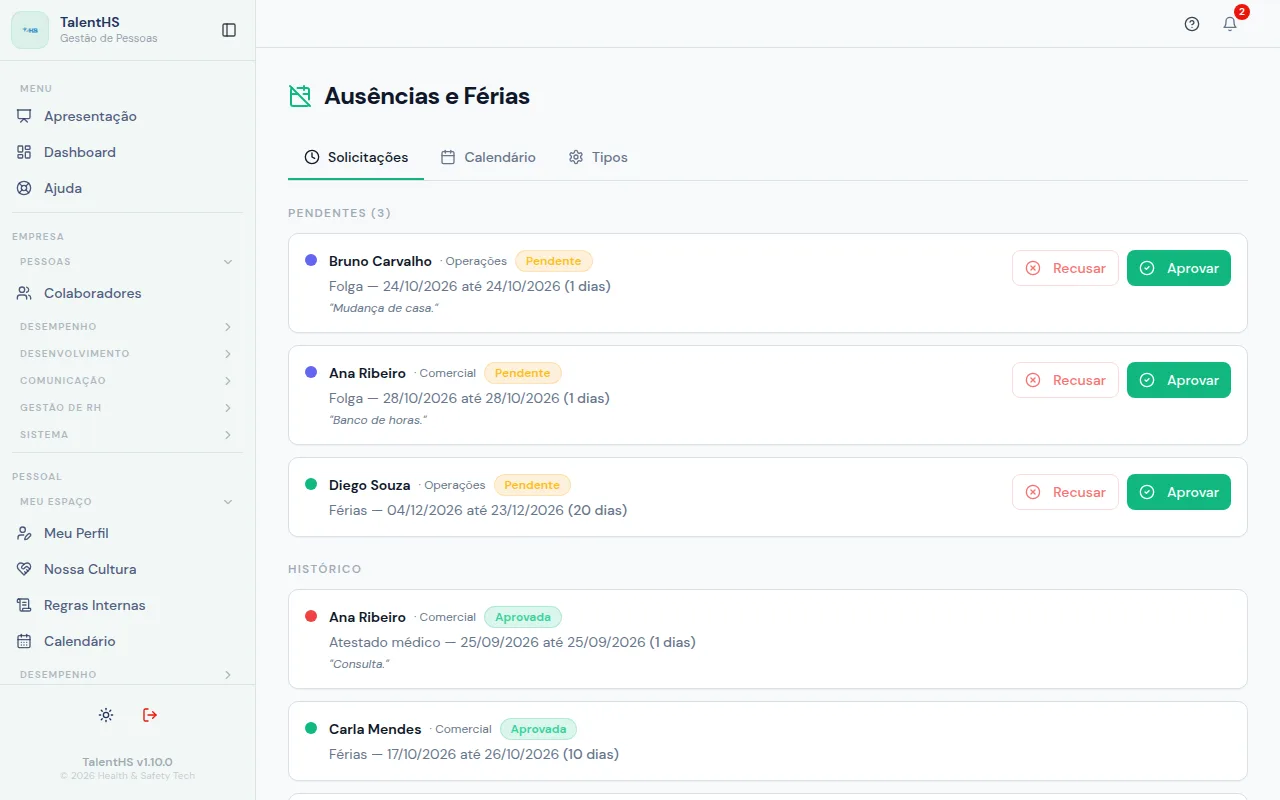
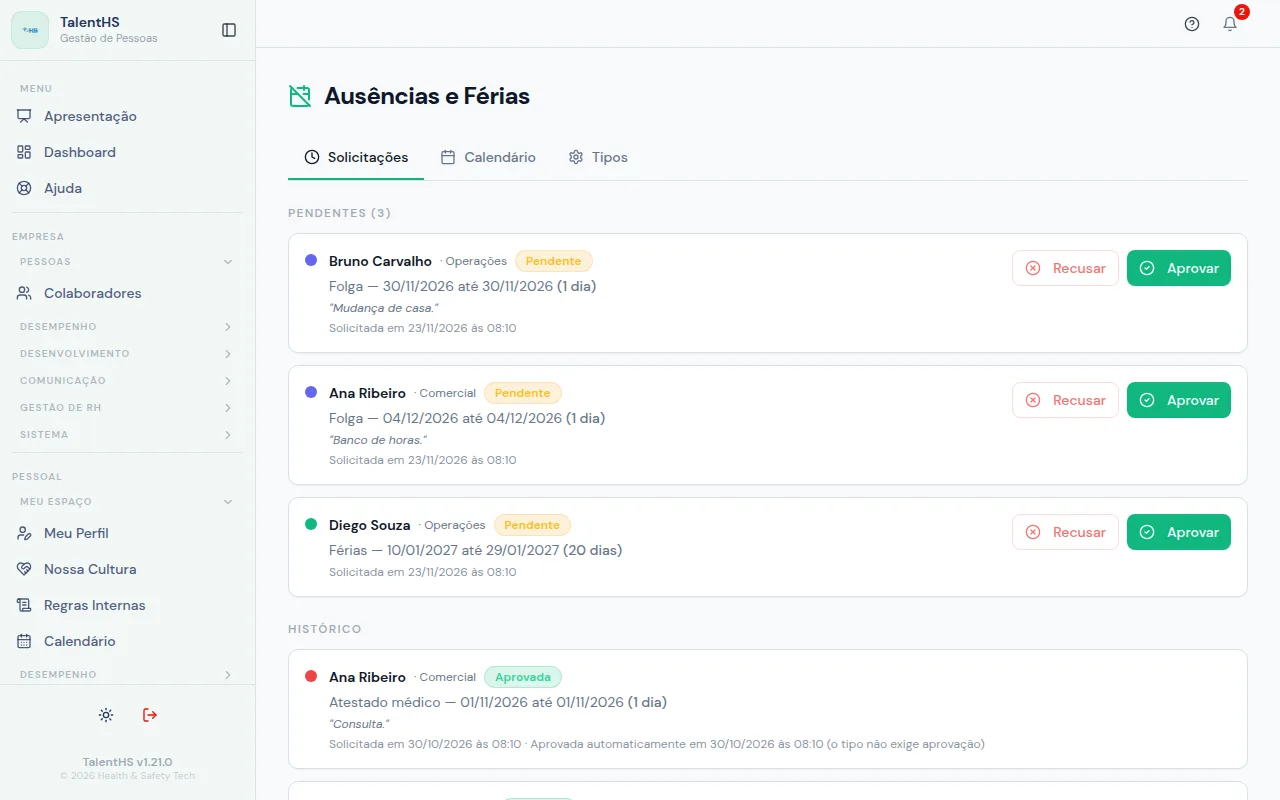
feat(ausencias): RH vê quando o pedido foi feito, quem decidiu e quando; aprovação automática registrada, versão 1.21.0
Pedido de tipo sem aprovação (ex.: Atestado Médico) entrava 'approved' sem
reviewed_at nem marca de origem, e o RH não tinha como saber como foi aprovado.
Migração 037 cria absence_requests.auto_approved e preenche os já existentes.

diff --git a/frontend/src/pages/AbsencesAdminPage.tsx b/frontend/src/pages/AbsencesAdminPage.tsx
@@ -31,6 +31,38 @@ function StatusBadge({ status }: { status: AbsenceRequest["status"] }) {
   return <Badge className="bg-amber-500/15 text-amber-400 border-amber-500/20">Pendente</Badge>;
 }
 
+function formatDate(isoDate: string) {
+  return new Date(isoDate + "T12:00:00").toLocaleDateString("pt-BR");
+}
+
+function formatDateTime(iso: string) {
+  const d = new Date(iso);
+  return `${d.toLocaleDateString("pt-BR")} às ${d.toLocaleTimeString("pt-BR", { hour: "2-digit", minute: "2-digit" })}`;
+}
+
+function PeriodText({ request }: { request: AbsenceRequest }) {
+  if (request.start_time && request.end_time)
+    return (
+      <>
+        {formatDate(request.start_date)}, das {request.start_time} às {request.end_time}
+      </>
+    );
+  return (
+    <>
+      {formatDate(request.start_date)} até {formatDate(request.end_date)}{" "}
+      <span className="font-medium">({request.days} {request.days === 1 ? "dia" : "dias"})</span>
+    </>
+  );
+}
+
+function decisionText(request: AbsenceRequest) {
+  if (request.status === "pending" || !request.reviewed_at) return null;
+  const when = formatDateTime(request.reviewed_at);
+  if (request.auto_approved) return `Aprovada automaticamente em ${when} (o tipo não exige aprovação)`;
+  const verb = request.status === "approved" ? "Aprovada" : "Recusada";
+  return `${verb} por ${request.reviewer_name ?? "usuário removido"} em ${when}`;
+}
+
 // ── Review Dialog ─────────────────────────────────────────────────────────────
 
 function ReviewDialog({
@@ -70,9 +102,7 @@ function ReviewDialog({
         </DialogHeader>
         <div className="space-y-3 py-2">
           <p className="text-sm text-muted-foreground">
-            <strong>{request.user_name}</strong> — {request.type_name} de{" "}
-            {new Date(request.start_date + "T12:00:00").toLocaleDateString("pt-BR")} até{" "}
-            {new Date(request.end_date + "T12:00:00").toLocaleDateString("pt-BR")} ({request.days} dias)
+            <strong>{request.user_name}</strong> — {request.type_name}: <PeriodText request={request} />
           </p>
           <div className="space-y-1">
             <Label>Nota (opcional)</Label>
@@ -191,10 +221,7 @@ function RequestCard({
               <StatusBadge status={request.status} />
             </div>
             <p className="text-sm text-muted-foreground">
-              {request.type_name} —{" "}
-              {new Date(request.start_date + "T12:00:00").toLocaleDateString("pt-BR")} até{" "}
-              {new Date(request.end_date + "T12:00:00").toLocaleDateString("pt-BR")}{" "}
-              <span className="font-medium">({request.days} dias)</span>
+              {request.type_name} — <PeriodText request={request} />
             </p>
             {request.reason && (
               <p className="text-xs text-muted-foreground italic">"{request.reason}"</p>
@@ -202,6 +229,10 @@ function RequestCard({
             {request.review_note && (
               <p className="text-xs text-muted-foreground">Nota: {request.review_note}</p>
             )}
+            <p className="text-xs text-muted-foreground/80">
+              Solicitada em {formatDateTime(request.created_at)}
+              {decisionText(request) && <> · {decisionText(request)}</>}
+            </p>
           </div>
           {request.status === "pending" && onApprove && onReject && (
             <div className="flex gap-2 shrink-0">

diff --git a/frontend/src/components/ChangelogModal.tsx b/frontend/src/components/ChangelogModal.tsx
@@ -16,9 +16,19 @@ interface ChangelogVersion {
 
 const CHANGELOG: ChangelogVersion[] = [
   {
+    version: "v1.21.0",
+    date: "26/11/2026",
+    current: true,
+    entries: [
+      { type: "novidade", text: "Em Ausências e Férias, cada pedido mostra quando foi solicitado e, depois de decidido, quem aprovou ou recusou e quando." },
+      { type: "melhoria", text: "Pedidos de tipos que não exigem aprovação aparecem como \"Aprovada automaticamente\", para não serem confundidos com uma aprovação do gestor." },
+      { type: "melhoria", text: "Ausências de parte do dia mostram o horário pedido na tela do RH, em vez de \"(0 dias)\"." },
+      { type: "melhoria", text: "O relatório de ausências ganhou as colunas Decidido por e Decidido em." },
+    ],
+  },
+  {
     version: "v1.20.0",
     date: "18/11/2026",
-    current: true,
     entries: [
       { type: "novidade", text: "Cada colaborador agora tem um gestor responsável, definido pelo RH no cadastro. Só ele dá a nota de gestor daquela pessoa." },
       { type: "novidade", text: "Gestores avaliam a própria equipe em Minha Avaliação, na nova aba Avaliar minha equipe." },

diff --git a/frontend/src/components/AdminSidebar.tsx b/frontend/src/components/AdminSidebar.tsx
@@ -294,7 +294,7 @@ export function AdminSidebar() {
             onClick={() => setChangelogOpen(true)}
             className="w-full rounded-md px-2 py-1.5 text-center transition-colors hover:bg-sidebar-accent"
           >
-            <p className="text-xs font-semibold text-muted-foreground/60 leading-tight hover:text-muted-foreground transition-colors">TalentHS v1.20.0</p>
+            <p className="text-xs font-semibold text-muted-foreground/60 leading-tight hover:text-muted-foreground transition-colors">TalentHS v1.21.0</p>
             <p className="text-[10px] text-muted-foreground/35 leading-tight">© 2026 Health & Safety Tech</p>
           </button>
         </div>

diff --git a/frontend/src/types/absences.ts b/frontend/src/types/absences.ts
@@ -24,5 +24,7 @@ export interface AbsenceRequest {
   status: "pending" | "approved" | "rejected";
   review_note?: string;
   reviewed_at?: string;
+  reviewer_name?: string | null;
+  auto_approved: boolean;
   created_at: string;
 }

diff --git a/backend/tests/db/test_absences_review_info_api.py b/backend/tests/db/test_absences_review_info_api.py
@@ -1,0 +1,64 @@
+from tests.db.conftest import make_company, make_user
+
+
+async def _type(db, company_id, requires_approval: bool) -> str:
+    return str(await db.fetchval(
+        "INSERT INTO public.absence_types (company_id, name, requires_approval) VALUES ($1, 'Tipo', $2) RETURNING id",
+        company_id, requires_approval,
+    ))
+
+
+def _team_item(body, request_id):
+    return next(r for r in body if r["id"] == request_id)
+
+
+async def test_auto_approved_request_records_when_and_how(db, client_as):
+    company = await make_company(db)
+    user = await make_user(db, company, name="Welton")
+    hr = await make_user(db, company, name="Gestora RH", role="manager")
+    type_id = await _type(db, company, requires_approval=False)
+
+    created = (await client_as(user).post("/absences/request", json={
+        "type_id": type_id, "start_date": "2027-01-05", "start_time": "10:00", "end_time": "11:30",
+    })).json()
+    assert created["status"] == "approved"
+
+    item = _team_item((await client_as(hr).get("/absences/team")).json(), created["id"])
+    assert item["auto_approved"] is True
+    assert item["reviewed_at"] == item["created_at"]
+    assert item["reviewer_name"] is None
+
+
+async def test_manual_approval_shows_reviewer_name(db, client_as):
+    company = await make_company(db)
+    user = await make_user(db, company, name="Ana")
+    hr = await make_user(db, company, name="Gestora RH", role="manager")
+    type_id = await _type(db, company, requires_approval=True)
+
+    created = (await client_as(user).post("/absences/request", json={
+        "type_id": type_id, "start_date": "2027-02-01", "end_date": "2027-02-03",
+    })).json()
+    assert created["status"] == "pending"
+    assert created["auto_approved"] is False and created["reviewed_at"] is None
+
+    await client_as(hr).put(f"/absences/{created['id']}/approve", json={"note": "ok"})
+
+    item = _team_item((await client_as(hr).get("/absences/team")).json(), created["id"])
+    assert item["auto_approved"] is False
+    assert item["reviewer_name"] == "Gestora RH"
+    assert item["reviewed_at"] is not None
+
+
+async def test_report_csv_has_decision_columns(db, client_as):
+    company = await make_company(db)
+    user = await make_user(db, company, name="Ana")
+    hr = await make_user(db, company, name="Gestora RH", role="manager")
+    auto_type = await _type(db, company, requires_approval=False)
+    await client_as(user).post("/absences/request", json={
+        "type_id": auto_type, "start_date": "2027-01-05", "end_date": "2027-01-05",
+    })
+
+    text = (await client_as(hr).get("/reports/absences")).content.decode("utf-8-sig")
+    header, row = text.splitlines()[:2]
+    assert "Decidido por" in header and "Decidido em" in header
+    assert "Automática (tipo sem aprovação)" in row

diff --git a/backend/app/routers/absences.py b/backend/app/routers/absences.py
@@ -63,6 +63,8 @@ def _ser_request(r) -> dict:
         "status": r["status"],
         "review_note": r.get("review_note"),
         "reviewed_at": r["reviewed_at"].isoformat() if r.get("reviewed_at") else None,
+        "reviewer_name": r.get("reviewer_name"),
+        "auto_approved": r.get("auto_approved", False),
         "created_at": r["created_at"].isoformat() if r["created_at"] else None,
     }
 
@@ -144,11 +146,12 @@ async def delete_type(
 
 REQUEST_JOIN = """
     SELECT ar.*, p.name AS user_name, p.email AS user_email, d.name AS department,
-           at.name AS type_name, at.color AS type_color
+           at.name AS type_name, at.color AS type_color, rp.name AS reviewer_name
     FROM absence_requests ar
     JOIN profiles p ON p.user_id = ar.user_id
     LEFT JOIN departments d ON d.id = p.department_id
     JOIN absence_types at ON at.id = ar.type_id
+    LEFT JOIN profiles rp ON rp.user_id = ar.reviewed_by
 """
 
 
@@ -229,13 +232,16 @@ async def create_request(
     if not atype:
         raise HTTPException(404, "Tipo de ausência não encontrado")
 
-    status = "pending" if atype["requires_approval"] else "approved"
+    auto_approved = not atype["requires_approval"]
+    status = "approved" if auto_approved else "pending"
     row = await conn.fetchrow(
         """INSERT INTO absence_requests
-               (company_id, user_id, type_id, start_date, end_date, start_time, end_time, days, reason, status)
-           VALUES ($1, $2, $3, $4, $5, $6, $7, $8, $9, $10) RETURNING *""",
+               (company_id, user_id, type_id, start_date, end_date, start_time, end_time, days, reason,
+                status, auto_approved, reviewed_at)
+           VALUES ($1, $2, $3, $4, $5, $6, $7, $8, $9, $10, $11, CASE WHEN $11 THEN now() END)
+           RETURNING *""",
         company_id, user_id, body["type_id"], start, end, start_time, end_time, days,
-        body.get("reason"), status,
+        body.get("reason"), status, auto_approved,
     )
     full = await conn.fetchrow(
         REQUEST_JOIN + " WHERE ar.id = $1", row["id"]

diff --git a/backend/app/routers/reports.py b/backend/app/routers/reports.py
@@ -118,11 +118,13 @@ async def report_absences(
     rows = await conn.fetch(
         """SELECT p.name, p.email, d.name AS department,
                   at.name AS type_name, ar.start_date, ar.end_date, ar.days,
-                  ar.status, ar.reason, ar.review_note, ar.created_at
+                  ar.status, ar.reason, ar.review_note, ar.created_at,
+                  ar.auto_approved, ar.reviewed_at, rp.name AS reviewer_name
            FROM absence_requests ar
            JOIN profiles p ON p.user_id = ar.user_id
            LEFT JOIN departments d ON d.id = p.department_id
            JOIN absence_types at ON at.id = ar.type_id
+           LEFT JOIN profiles rp ON rp.user_id = ar.reviewed_by
            WHERE ar.company_id = $1
            ORDER BY ar.created_at DESC""",
         company_id,
@@ -141,10 +143,15 @@ async def report_absences(
             r["reason"] or "",
             r["review_note"] or "",
             _fmt_date(r["created_at"]),
+            "Automática (tipo sem aprovação)" if r["auto_approved"] else (r["reviewer_name"] or ""),
+            _fmt_date(r["reviewed_at"]),
         ]
         for r in rows
     ]
-    headers = ["Nome", "E-mail", "Departamento", "Tipo", "Início", "Fim", "Dias", "Status", "Motivo", "Nota do Gestor", "Solicitado em"]
+    headers = [
+        "Nome", "E-mail", "Departamento", "Tipo", "Início", "Fim", "Dias", "Status", "Motivo",
+        "Nota do Gestor", "Solicitado em", "Decidido por", "Decidido em",
+    ]
     return _csv_response(data, headers, "ausencias.csv")
 
 

diff --git a/backend/scripts/seed_captures.py b/backend/scripts/seed_captures.py
@@ -725,12 +725,14 @@ class Seeder:
                 ("carla", "Férias", -3, 10, "approved", None),
                 ("diego", "Férias", 45, 20, "pending", None)]
         for key, tname, offset, n, st, reason in rows:
+            auto = tname == "Atestado médico"
             reviewed = st != "pending"
+            requested_at = self.now - timedelta(days=27 if auto else 3)
             await self.ins("absence_requests", company_id=self.company_id, user_id=self.users[key],
                            type_id=types[tname], start_date=self.days(offset), end_date=self.days(offset + n - 1),
-                           days=n, reason=reason, status=st,
-                           reviewed_by=self.users["gestor"] if reviewed else None,
-                           reviewed_at=self.now - timedelta(days=2) if reviewed else None)
+                           days=n, reason=reason, status=st, auto_approved=auto, created_at=requested_at,
+                           reviewed_by=self.users["gestor"] if reviewed and not auto else None,
+                           reviewed_at=(requested_at if auto else self.now - timedelta(days=2)) if reviewed else None)
 
     async def benefits(self) -> None:
         rows = [("Plano de saúde", "saude", "Cobertura nacional com coparticipação.", "Saúde Exemplo", "info", None),

diff --git a/frontend/src/help/guides/administracao/ausencias.md b/frontend/src/help/guides/administracao/ausencias.md
@@ -19,7 +19,7 @@ Em **Ausências e Férias** você aprova ou recusa as solicitações de férias,
 ## Passo a passo
 
 1. No menu, no bloco **Empresa**, em **Gestão de RH**, clique em **Ausências**.
-2. Na aba **Solicitações**, veja em **Pendentes** os pedidos que esperam resposta e, em **Histórico**, os já decididos. Cada pedido mostra a pessoa, o departamento, o tipo, o período, o número de dias e o motivo.
+2. Na aba **Solicitações**, veja em **Pendentes** os pedidos que esperam resposta e, em **Histórico**, os já decididos. Cada pedido mostra a pessoa, o departamento, o tipo, o período (com o horário, se for só parte do dia), o motivo e, embaixo, quando foi solicitado. Nos pedidos do **Histórico**, essa linha diz também quem aprovou ou recusou e quando, ou que o pedido foi **aprovado automaticamente**.
 
 ![Ausências e Férias com três solicitações pendentes, com os botões Recusar e Aprovar, e o histórico de solicitações aprovadas](/capturas/admin-ausencias.webp)
 
@@ -47,11 +47,9 @@ Em **Ausências e Férias** você aprova ou recusa as solicitações de férias,
 
 ## Dúvidas comuns
 
-**Um pedido mostra "(0 dias)".** É uma ausência de parte do dia. O horário pedido não aparece nesta tela; a pessoa vê o horário em **Minhas Ausências**.
-
 **A pessoa recebe notificação da decisão?** Não. A decisão aparece na tela **Minhas Ausências** dela, mas o TalentHS não envia notificação.
 
-**Um pedido entrou já aprovado.** O tipo escolhido não pede aprovação: **Requer aprovação do gestor** está desmarcado nele, na aba **Tipos**.
+**Um pedido entrou já aprovado.** O tipo escolhido não pede aprovação: **Requer aprovação do gestor** está desmarcado nele, na aba **Tipos**. O pedido aparece no **Histórico** como **Aprovada automaticamente**, sem nome de quem aprovou. Se esse tipo deve passar por você, edite-o e marque a opção; vale para os pedidos novos.
 
 **Não consigo remover um tipo.** Um tipo que já foi usado em algum pedido não pode ser removido: aparece **Erro ao remover**.
 
